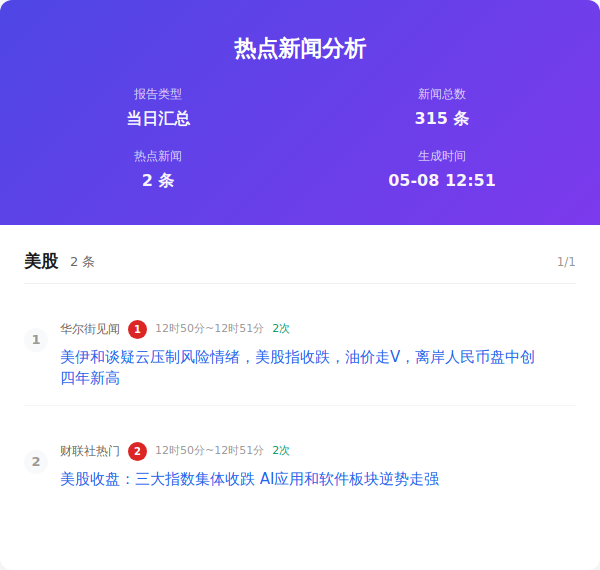
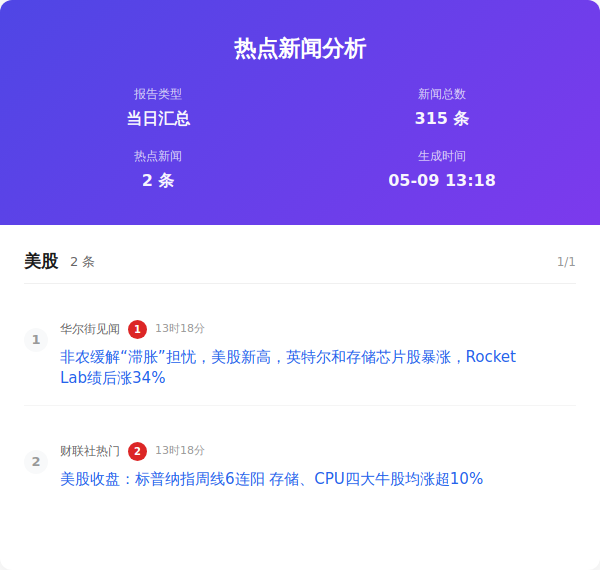
Auto update by GitHub Actions at Sat May  9 13:18:20 CST 2026

Changed region(s): [[0.09, 0.5667, 0.9, 0.686], [0.21, 0.7754, 0.81, 0.8649], [0.72, 0.2982, 0.84, 0.3281]]

diff --git a/output/2026年05月09日/html/13时18分.html b/output/2026年05月09日/html/13时18分.html
@@ -353,11 +353,11 @@
                 <div class="header-info">
                     <div class="info-item">
                         <span class="info-label">报告类型</span>
-                        <span class="info-value">当日汇总</span>
+                        <span class="info-value">实时分析</span>
                     </div>
                     <div class="info-item">
                         <span class="info-label">新闻总数</span>
-                        <span class="info-value">315 条</span>
+                        <span class="info-value">255 条</span>
                     </div>
                     <div class="info-item">
                         <span class="info-label">热点新闻</span>
